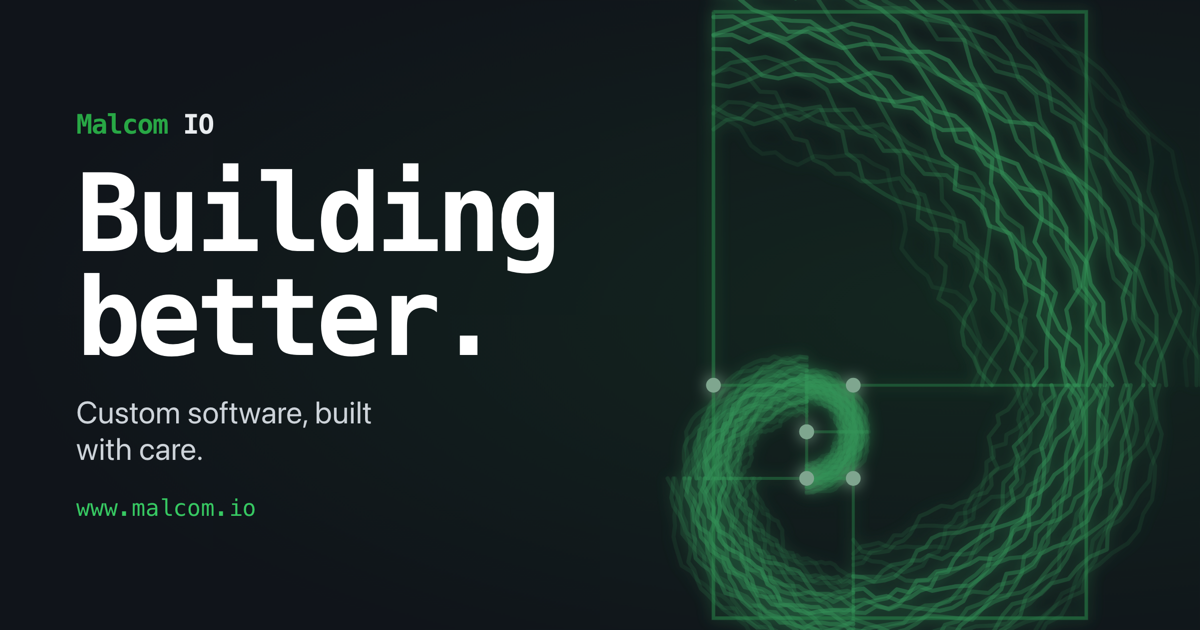
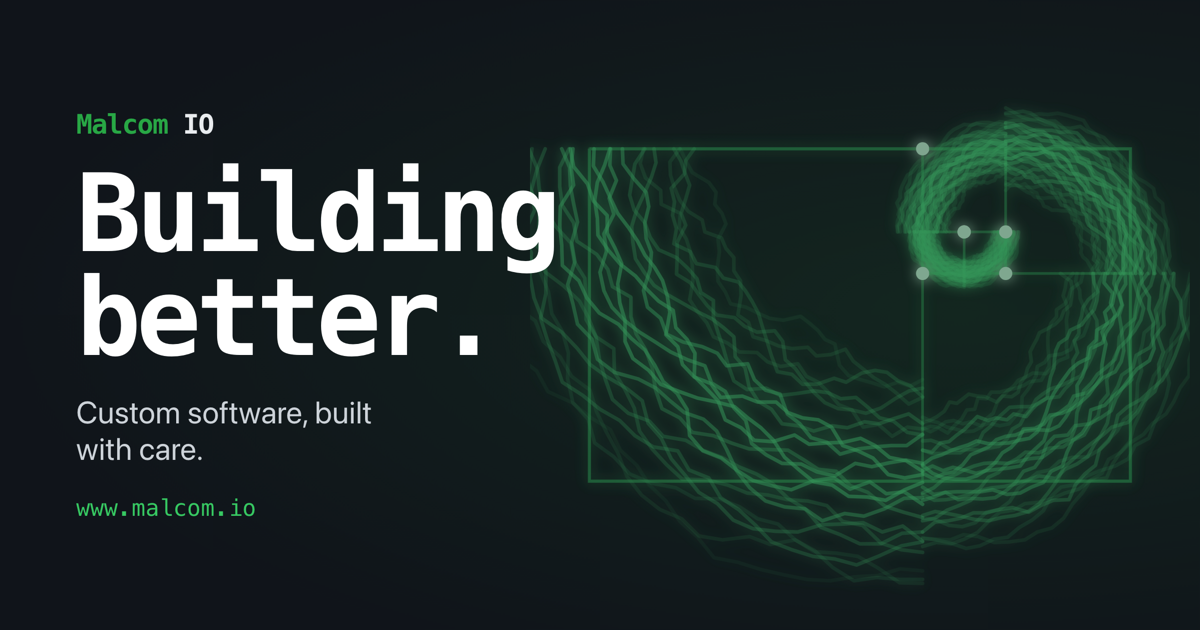
Match x-ray hero motif to the nav mark direction; responsive corner accent (#23)
* Flip + reposition the x-ray hero motif; add a subtle breathe

The x-ray sat with its "eye" low-left and its big top arc crammed behind the
fixed navbar. Flip it horizontally (scaleX(-1)) so it coils the same way as the
nav mark, and size/place it (74vmin, top 52%, right -5%) so the eye reads
center-right and the composition clears the menu. Add a slow opacity+scale
"breathe" (8s) for a living-energy feel, neutralized under reduced-motion.

* Match x-ray hero motif to the nav mark; responsive corner accent

The hero φ-spiral now mirrors + rotates (scaleX(-1) rotate(90deg)) so it
reads like a big version of the nav/favicon mark — eye upper-right, tail
sweeping to the lower-left. The raw x-ray coils the opposite way, so a
mirror (not just a rotation) is required to match. Sized/placed to show
the whole spiral in the right half (right:13%, 70vmin).

Below Bootstrap `lg` the text column goes full-width, so the motif
retreats to a cropped top-right corner accent — behind the headline,
clear of the lead copy and CTAs; static and fainter on phones. Opacity is
driven through --xray-op-* custom props so the breathe keyframes don't
clobber the responsive overrides.

Regenerate the OG card in the same orientation for consistency.

---------

Changed region(s): [[0.4317, 0.0, 1.0, 1.0]]

diff --git a/src/app/home/home.component.scss b/src/app/home/home.component.scss
@@ -21,21 +21,74 @@
   width: 2.2rem;
 }
 
-// Golden-ratio "x-ray" motif — glowing φ-spiral filaments bleeding off the right.
+// Golden-ratio "x-ray" motif — glowing φ-spiral filaments in the right half of the hero.
 // Regenerate with scripts/make-xray.mjs. (Static: the rectangle grid shouldn't rotate.)
 .hero::before {
   content: "";
   position: absolute;
   top: 50%;
-  right: -8%;
-  width: 82vmin;
-  height: 82vmin;
-  max-width: 820px;
-  max-height: 820px;
-  transform: translateY(-50%);
+  right: 13%;
+  width: 70vmin;
+  height: 70vmin;
+  max-width: 720px;
+  max-height: 720px;
+  // mirrored + rotated so the φ-spiral matches the nav mark's direction/orientation:
+  // eye in the upper-right, tail sweeping open to the lower-left (the "comma" lean).
+  // (flip is required — the raw x-ray coils the opposite way from the nav mark.)
+  transform: translateY(-50%) scaleX(-1) rotate(90deg);
   background: url("/assets/img/hero-xray.svg") no-repeat center / contain;
-  opacity: 0.5;
+  // Opacity is driven by the breathe keyframes through these custom props. Responsive
+  // tiers dim the motif by overriding the props (NOT `opacity` directly — the running
+  // animation would clobber a plain `opacity` override each tick and cause a flicker).
+  --xray-op-lo: 0.42;
+  --xray-op-hi: 0.56;
+  opacity: var(--xray-op-lo);
   pointer-events: none;
+  animation: hero-xray-breathe 8s ease-in-out infinite;
+}
+// subtle "living energy" breathe (neutralized under prefers-reduced-motion)
+@keyframes hero-xray-breathe {
+  0%,
+  100% {
+    opacity: var(--xray-op-lo);
+    transform: translateY(-50%) scaleX(-1) rotate(90deg) scale(1);
+  }
+  50% {
+    opacity: var(--xray-op-hi);
+    transform: translateY(-50%) scaleX(-1) rotate(90deg) scale(1.025);
+  }
+}
+
+// Below Bootstrap `lg` the text column goes ~full-width and the empty right half that
+// the motif lived in collapses. Retreat it to a cropped top-right corner accent that
+// bleeds off-screen (clipped by .hero's overflow:hidden), sitting behind the big
+// high-contrast headline and clear of the lead copy + CTAs. Keep the recognizable
+// "eye"; let the tail run off the edge. Reposition via top/right/width only (never
+// transform/opacity — those are animated); dim via the --xray-op-* custom props.
+@media (max-width: 991.98px) {
+  .hero::before {
+    top: 30%;
+    right: -16%;
+    width: 58vmin;
+    max-width: 480px;
+    max-height: 480px;
+    --xray-op-lo: 0.3;
+    --xray-op-hi: 0.42;
+  }
+}
+@media (max-width: 767.98px) {
+  .hero::before {
+    top: 17%;
+    right: -26%;
+    width: 62vmin;
+    max-width: 340px;
+    max-height: 340px;
+    --xray-op-lo: 0.24;
+    // static on phones: a small pulsing corner element reads as a glitch, and it
+    // spares the battery/CPU. With the animation off, the base `opacity` (the lo
+    // prop) applies directly.
+    animation: none;
+  }
 }
 
 // scroll affordance at the base of the hero
